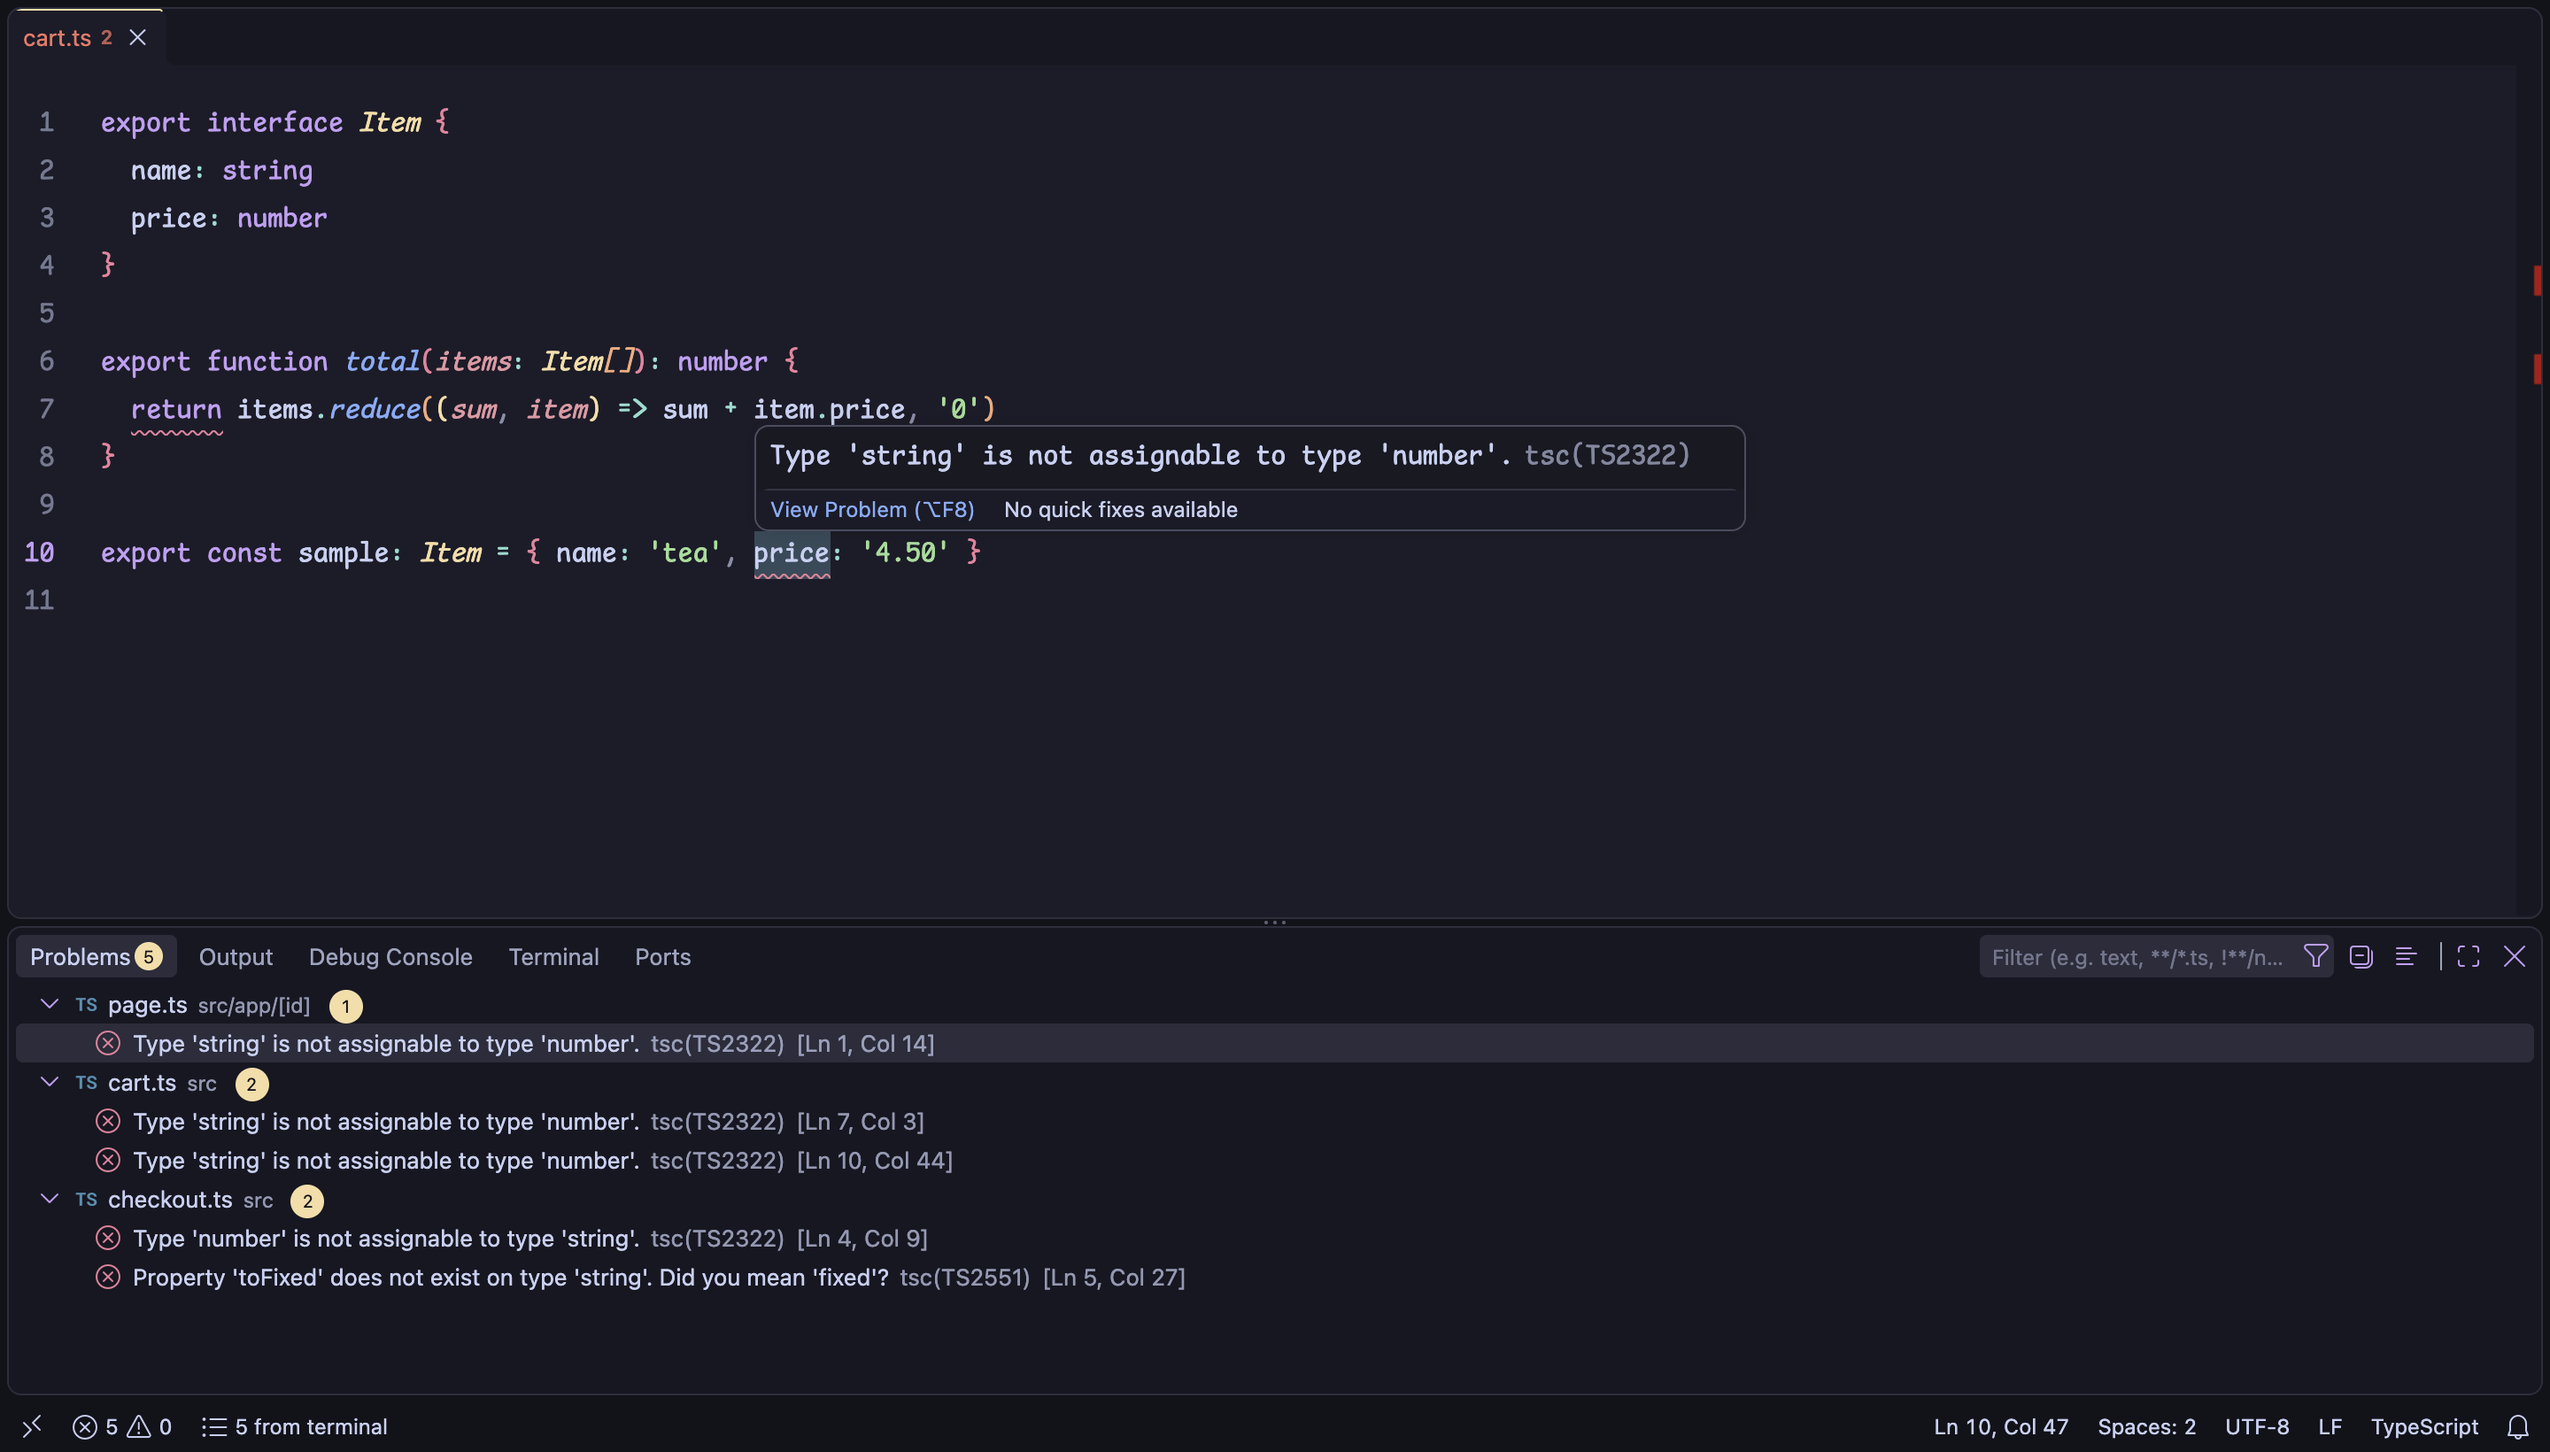
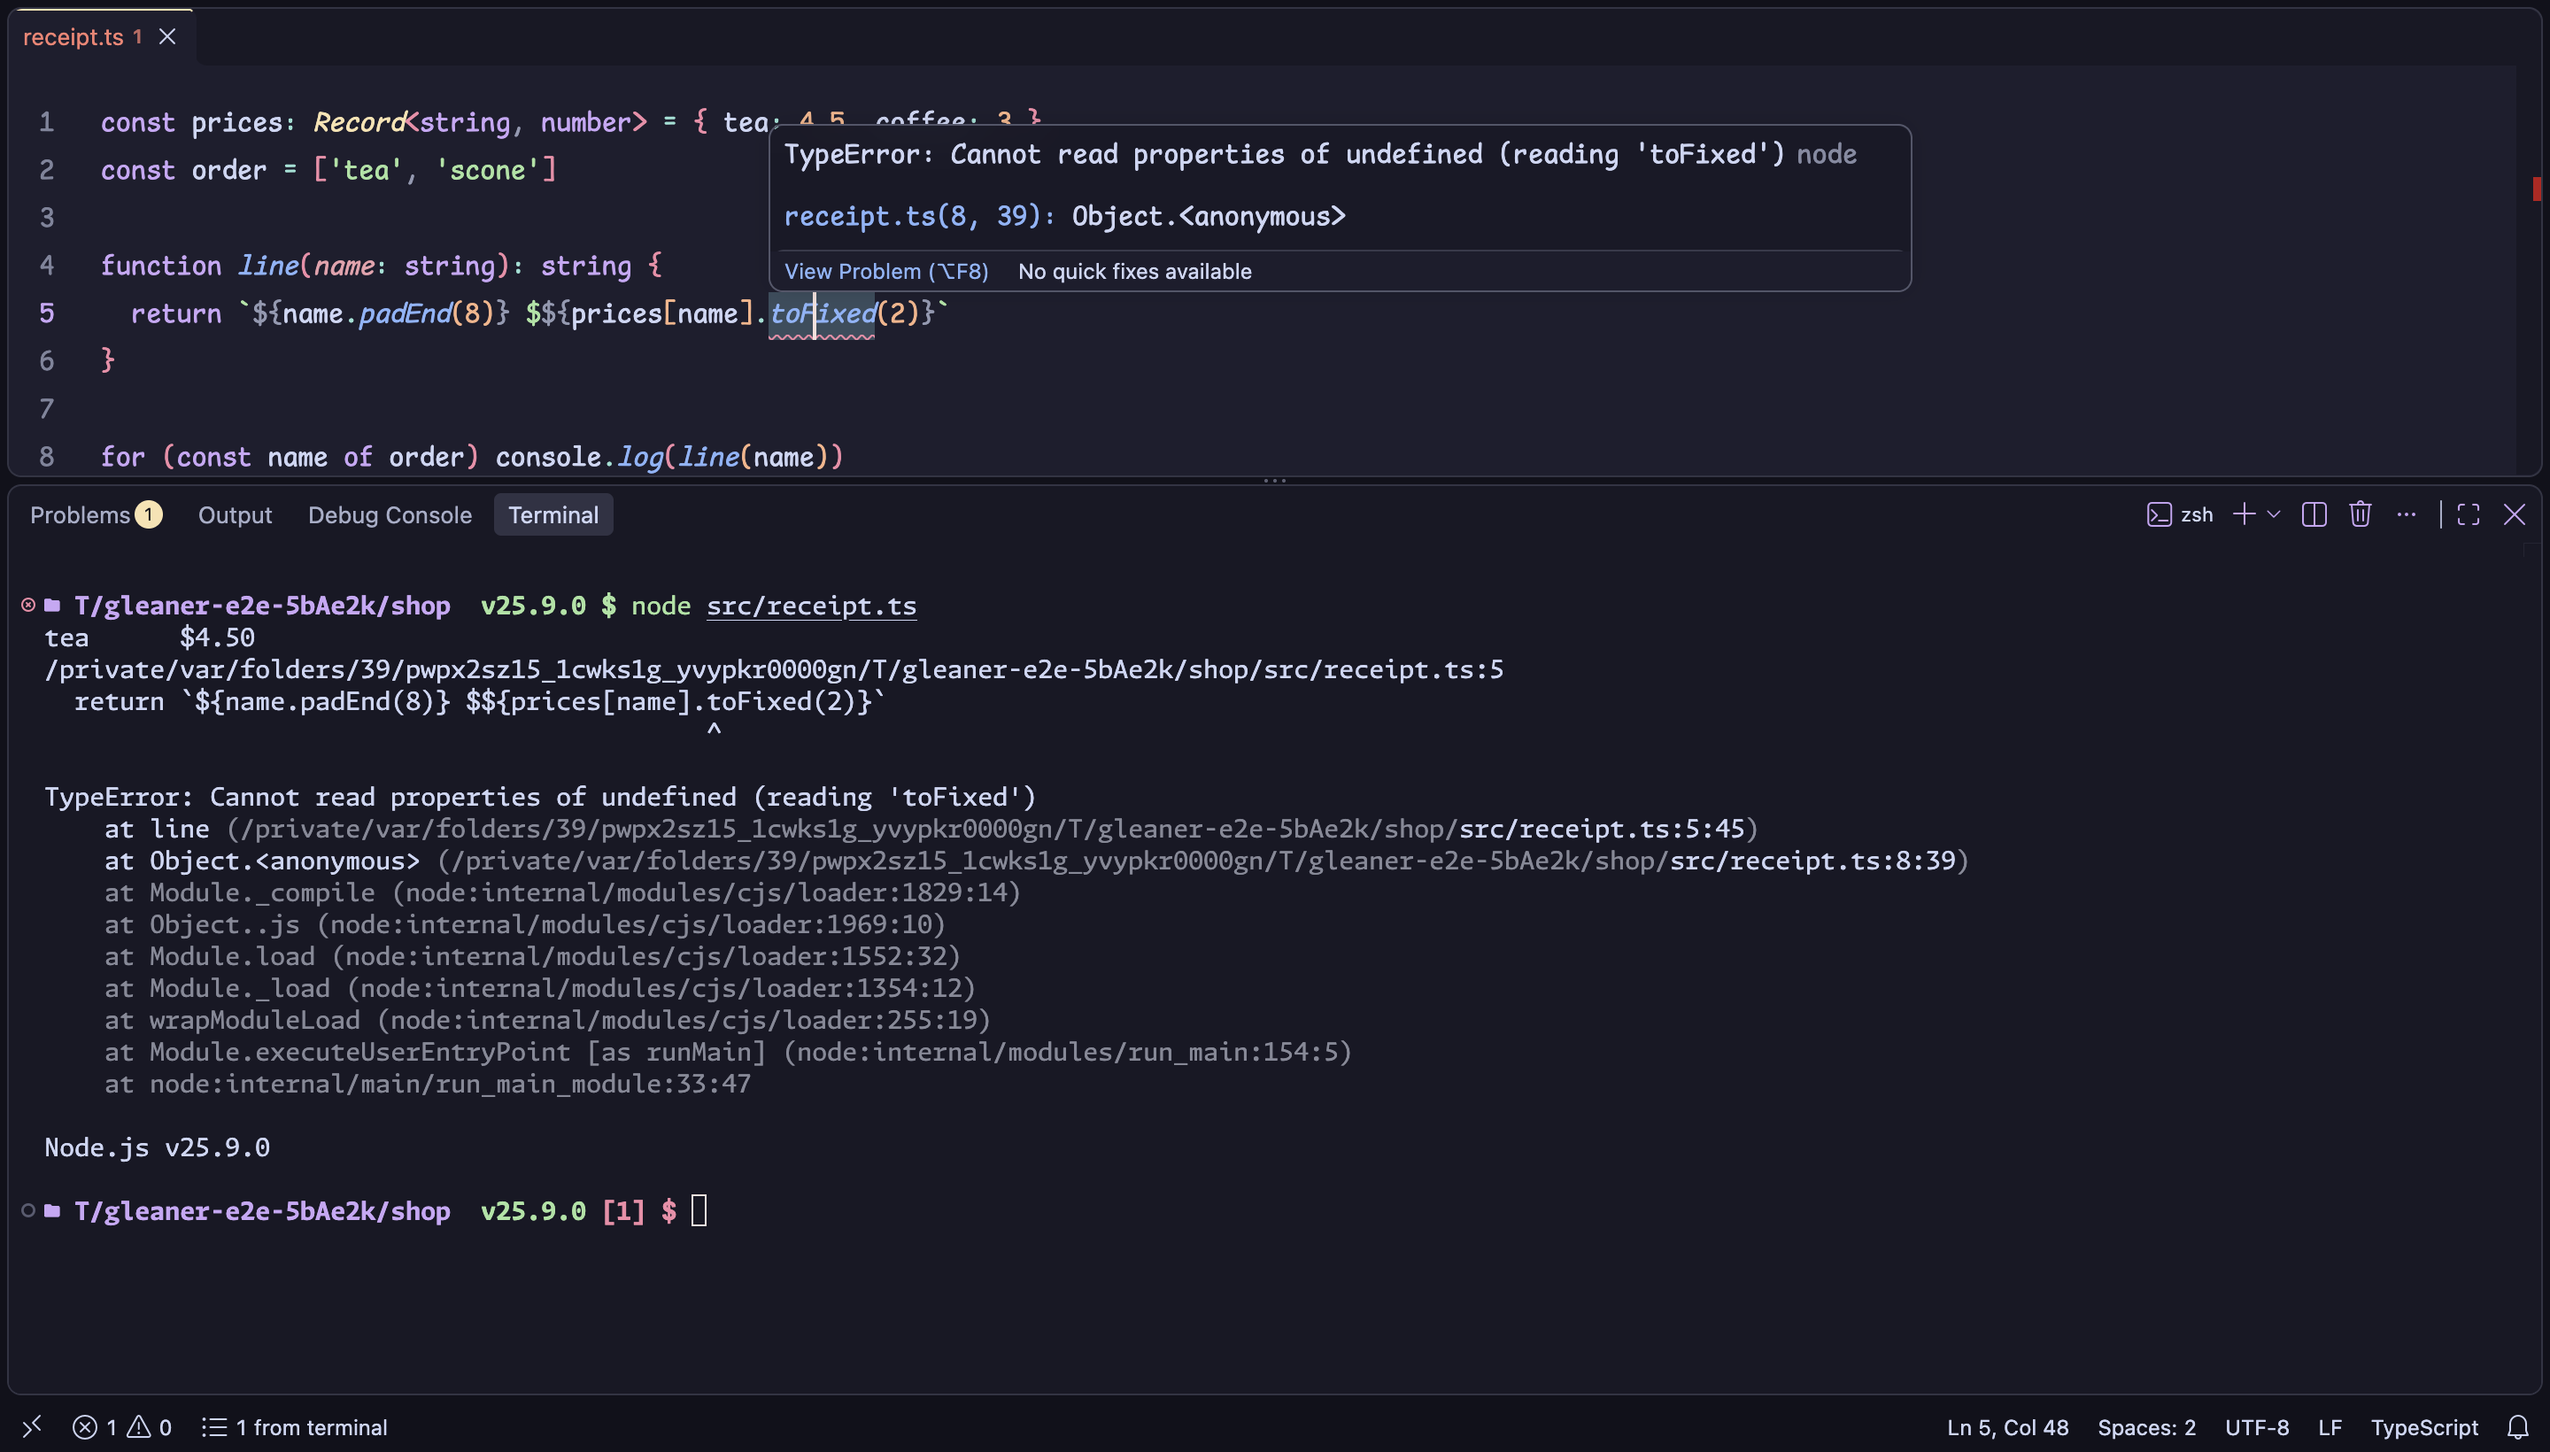
screenshot: a runtime crash no language server sees, with the terminal that printed it

diff --git a/README.md b/README.md
@@ -10,7 +10,7 @@
 
 <br>
 
-![tsc errors from the terminal, as squiggles and a problems list](media/screenshot.png)
+![a node crash in the terminal, as a squiggle on the line that threw](media/screenshot.png)
 
 run `tsc`, `cargo build` or `pytest` like you always do. gleaner catches the errors as they scroll by and puts them where you can use them: squiggles in your code, a list in the problems panel, one click from the line.
 
